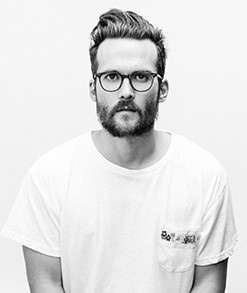
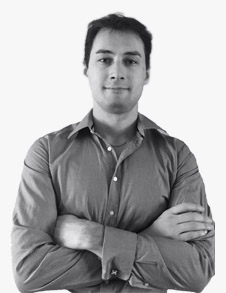
Добавлено фото 3го члена

diff --git a/index.html b/index.html
@@ -340,7 +340,7 @@
                     <p>Андрей Кабарчук /<br>
                       <span> 3D дизайн  и моделирование</span></p>
                     <p>
-                      Быстро, качественно, дешево - выберите 2 важных для Вас пункта.
+                      Cкорость моделирования - зависит от точности предоставленных данных.
                     </p>
                     <p>тел: &nbsp; <span>+3(067)-522-11-45<span></p>
                     <p>e-mail: &nbsp; <span>sm@maxi-life.in.ua<span></p>

diff --git a/css/style.css b/css/style.css
@@ -910,7 +910,7 @@ body{
 
 .team-cell:hover p{
   display: block;
-  animation: p-animation 1s;
+  animation: p-animation 0.8s;
 }
 
 @keyframes say-animation {
